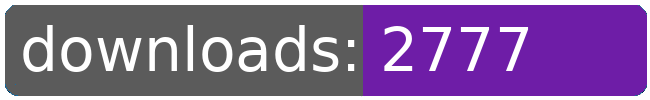
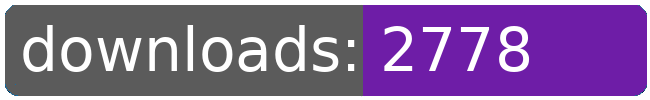
dl log written

Changed region(s): [[0.7692, 0.24, 0.8308, 0.72]]

diff --git a/README.md b/README.md
@@ -54,8 +54,8 @@
 		<td>2709</td>
 		<td>2733</td>
 		<td>2761</td>
-		<td>2777</td>
-		<td>+ 16</td>
+		<td>2778</td>
+		<td>+ 17</td>
 	</tr>
 	<tr>
 		<td>capture.archons</td>
@@ -252,8 +252,8 @@
 		<td></td>
 		<td></td>
 		<td></td>
-		<td>38101</td>
-		<td>176</td>
+		<td>38102</td>
+		<td>177</td>
 	</tr>
 </table>
 </sub></sup>
@@ -289,8 +289,8 @@
 		<td>2709</td>
 		<td>2733</td>
 		<td>2761</td>
-		<td>2777</td>
-		<td>+ 16</td>
+		<td>2778</td>
+		<td>+ 17</td>
 	</tr>
 	<tr>
 		<td>1requiredcrew</td>
@@ -509,8 +509,8 @@
 		<td></td>
 		<td></td>
 		<td></td>
-		<td>38101</td>
-		<td>176</td>
+		<td>38102</td>
+		<td>177</td>
 	</tr>
 </table>
 </sub></sup>
